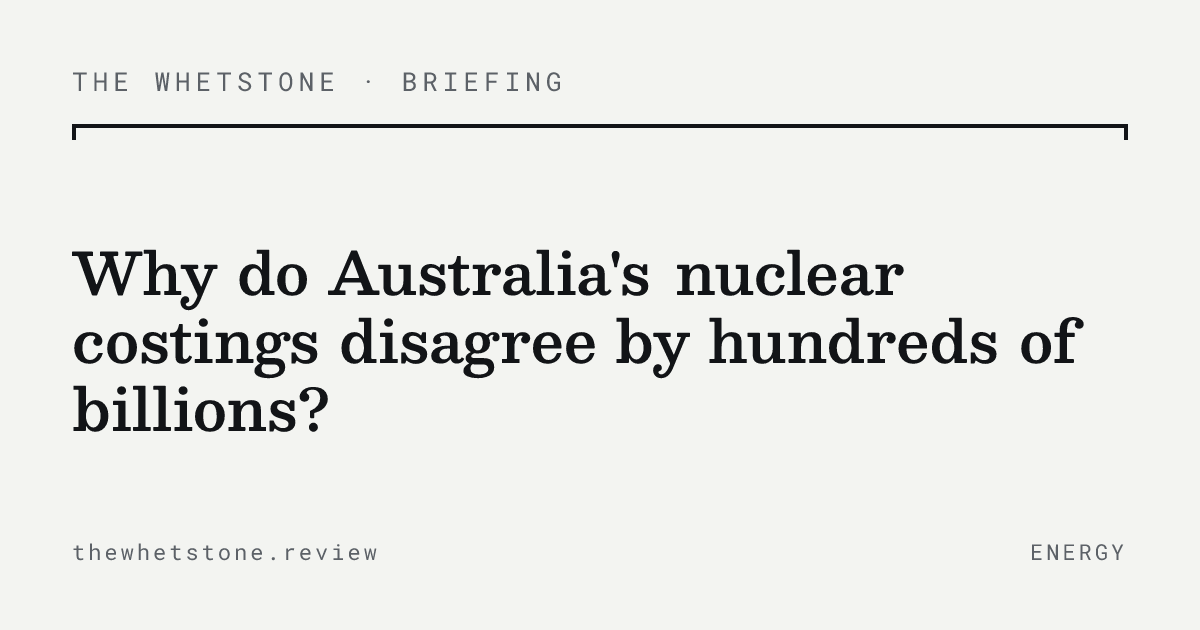
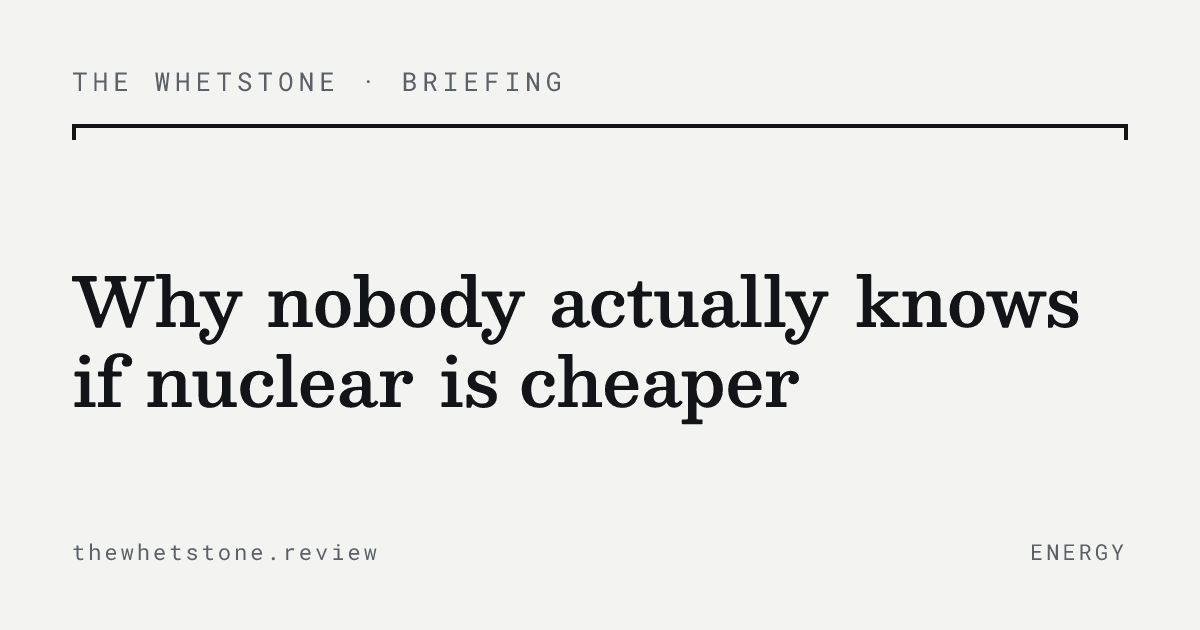
W1 launcher, T-A rails with ad slot, social takes, bridges, adapters
- index.astro: launcher stretches full width (W1)
- briefing page: wayfinder left rail (fuller map + scrollspy bolding the
  current section) with a compact audit launcher beneath; ad slot
  quarantined at the bottom of the right rail (ads re-decided 2026-08-06,
  see shelf file); placeholder until an AdSense ID exists
- three social takes land in the commentary, every quote verbatim-gated:
  Morrison (X), Joshi (Bluesky), Kean (X). verify-quotes gains platform
  adapters: X via the syndication endpoint fetched twice with agreement
  required, Bluesky via the public API; unreachable never means unverified
- bridge sentences: an 11th ::positions column renders connective tissue
  before commentary cards; prose bridges added between the audited
  position sections
- parser maps type: opinion and type: review to their kinds
- readability: article body text up to 17px
- e2e: Sources locator scoped to the section (the wayfinder link made the
  bare-text locator ambiguous); Playwright chromium reinstalled after the
  data-loss wipe. Full gate green: 720 unit, 8/8 e2e, 8/8 quotes verbatim

Changed region(s): [[0.0617, 0.3921, 0.925, 0.6937]]

diff --git a/scripts/verify-quotes.ts b/scripts/verify-quotes.ts
@@ -31,6 +31,11 @@ const UA =
 // anywhere in it — works on arXiv abstracts, think-tank pages, gov PDFs-as-HTML,
 // etc. Returns null on a non-200 or a genuinely empty page.
 async function fetchPageText(pageUrl: string): Promise<string | null> {
+  // Platform adapters (2026-08-06): social posts don't serve their text to a
+  // plain HTML fetch, but both platforms expose JSON that does.
+  const social = await fetchSocialText(pageUrl);
+  if (social !== undefined) return social;
+
   const controller = new AbortController();
   const timer = setTimeout(() => controller.abort(), 20_000);
   try {
@@ -49,6 +54,51 @@ async function fetchPageText(pageUrl: string): Promise<string | null> {
   } finally {
     clearTimeout(timer);
   }
+}
+
+async function fetchJson(url: string): Promise<unknown | null> {
+  const controller = new AbortController();
+  const timer = setTimeout(() => controller.abort(), 20_000);
+  try {
+    const res = await fetch(url, { signal: controller.signal, headers: { 'User-Agent': UA, 'Accept': 'application/json' } });
+    if (!res.ok) return null;
+    return await res.json();
+  } catch {
+    return null;
+  } finally {
+    clearTimeout(timer);
+  }
+}
+
+// Returns the post text for X/Twitter and Bluesky URLs, null when the platform
+// is recognised but unreachable (treated as UNREACHABLE, never "not found"),
+// and undefined for non-social URLs (fall through to the HTML fetch).
+async function fetchSocialText(pageUrl: string): Promise<string | null | undefined> {
+  // X/Twitter: the unofficial syndication endpoint returns full JSON without
+  // auth. Unstable by nature, so fetch twice with different token values and
+  // require the text fields to agree; disagreement or HTML → unreachable.
+  const tw = pageUrl.match(/^https?:\/\/(?:www\.)?(?:twitter|x)\.com\/[^/]+\/status(?:es)?\/(\d+)/i);
+  if (tw) {
+    const id = tw[1];
+    const grab = async (token: string) => {
+      const j = (await fetchJson(`https://cdn.syndication.twimg.com/tweet-result?id=${id}&token=${token}`)) as { text?: string } | null;
+      return typeof j?.text === 'string' ? j.text : null;
+    };
+    const [a, b] = await Promise.all([grab('a'), grab('b')]);
+    if (a !== null && a === b) return a.replace(/\s+/g, ' ').trim();
+    return null;
+  }
+  // Bluesky: public API, no auth. bsky.app/profile/<handle>/post/<rkey> →
+  // at://<handle>/app.bsky.feed.post/<rkey>.
+  const bs = pageUrl.match(/^https?:\/\/bsky\.app\/profile\/([^/]+)\/post\/([A-Za-z0-9]+)/i);
+  if (bs) {
+    const uri = encodeURIComponent(`at://${bs[1]}/app.bsky.feed.post/${bs[2]}`);
+    const j = (await fetchJson(`https://public.api.bsky.app/xrpc/app.bsky.feed.getPostThread?uri=${uri}&depth=0`)) as
+      { thread?: { post?: { record?: { text?: string } } } } | null;
+    const text = j?.thread?.post?.record?.text;
+    return typeof text === 'string' ? text.replace(/\s+/g, ' ').trim() : null;
+  }
+  return undefined;
 }
 
 async function main(): Promise<void> {

diff --git a/functions/_lib/briefing/parse.ts b/functions/_lib/briefing/parse.ts
@@ -75,6 +75,8 @@ function parsePositions(text: string): BriefingPositionSource[] {
         ...(p[7] ? { quote: p[7] } : {}),
         ...(p[8] ? { auditNote: p[8] } : {}),
         ...(p[9] && (p[9] === 'structural' || p[9] === 'interpretive' || p[9] === 'empirical') ? { auditKind: p[9] as BriefingPositionSource['auditKind'] } : {}),
+        // Optional 11: bridge sentence rendered before this source's card.
+        ...(p[10] ? { bridge: p[10] } : {}),
       };
     });
 }
@@ -344,7 +346,10 @@ export function parseBriefingFile(raw: string, slug: string): BriefingArticle {
 
   return {
     slug,
-    ...(fm.type === 'explainer' ? { kind: 'explainer' as const } : {}),
+    ...(fm.type === 'explainer' ? { kind: 'explainer' as const }
+      : fm.type === 'opinion' ? { kind: 'opinion' as const }
+      : fm.type === 'review' ? { kind: 'review' as const }
+      : {}),
     question:      fm.question ?? slug,
     ...(fm.hook ? { hook: fm.hook } : {}),
     ...(fm.category ? { category: fm.category } : {}),

diff --git a/e2e/briefing-page.spec.ts b/e2e/briefing-page.spec.ts
@@ -28,7 +28,7 @@ test('briefing page renders question, audit link, and takes', async ({ page }) =
 
   // ONE Sources section (positions + further evidence), not two competing
   // bibliographies; the old "Evidence cited" label is gone.
-  await expect(page.getByText('Sources', { exact: true })).toBeVisible();
+  await expect(page.locator('#sources').getByText('Sources', { exact: true })).toBeVisible();
   await expect(page.getByText(/Evidence cited/)).toHaveCount(0);
 
   // CTA budget: per-audit chips plus exactly one footer CTA into the tool.

diff --git a/functions/_lib/briefing/types.ts b/functions/_lib/briefing/types.ts
@@ -38,6 +38,10 @@ export interface BriefingPositionSource {
   quote?:       string;
   auditNote?:   string;
   auditKind?:   'structural' | 'interpretive' | 'empirical';
+  /** Optional 11th column: an authored bridge sentence rendered before this
+     source's commentary card — connective tissue between voices so the tier
+     reads as one conversation (Daniel, 2026-08-06). */
+  bridge?:      string;
 }
 
 // Principals: the primary sources UNDER audit (the reports/models the piece is

diff --git a/src/content/briefings/nuclear-costings-parent.md b/src/content/briefings/nuclear-costings-parent.md
@@ -17,10 +17,13 @@ frontier | Frontier Economics | A nuclear-inclusive system cheaper across the wh
 
 ::positions
 obrien | Ted O'Brien | 4BC | https://www.4bc.com.au/podcast/the-big-debate-ted-obrien-declares-nuclear-44-per-cent-cheaper-to-get-to-net-zero/ | -2 | high | Coalition energy spokesman; defends his own policy's costing | They've compared the cost of Labor's pathway to get to a net-zero grid by 2050 to the Coalition's one, which includes nuclear and it says that the Coalition's pathway is $263 billion cheaper. | The comparison crosses demand scenarios; the like-for-like figure in the same report is 25 per cent. Quoting only the cross-scenario number is a scenario-shopping move the report's own text enables but does not require. | structural
-price | Danny Price, AFR op-ed | Frontier Economics | https://www.frontier-economics.com.au/the-critics-are-wrong-about-frontiers-nuclear-costings-australian-financial-review-afr-op-ed/ | -2 | high | Frontier's managing director; defending his own model in public | There is no shortage of horror stories about nuclear plant cost blowouts, but there are also excellent recent examples of projects that are far less costly than what I have used and even lower than recommended by the CSIRO and with learning rates well in excess of what I assumed. | Selective admission: overruns are dismissed as noise while favourable builds enter as evidence, with no stated selection rule for either. | interpretive
+price | Danny Price, AFR op-ed | Frontier Economics | https://www.frontier-economics.com.au/the-critics-are-wrong-about-frontiers-nuclear-costings-australian-financial-review-afr-op-ed/ | -2 | high | Frontier's managing director; defending his own model in public | There is no shortage of horror stories about nuclear plant cost blowouts, but there are also excellent recent examples of projects that are far less costly than what I have used and even lower than recommended by the CSIRO and with learning rates well in excess of what I assumed. | Selective admission: overruns are dismissed as noise while favourable builds enter as evidence, with no stated selection rule for either. | interpretive | The number O'Brien reaches for comes from Danny Price's shop, and Price defends it in person.
+morrison | Aidan Morrison | X | https://x.com/QuixoticQuant/status/1860885993492218303 | -2 | high | Director of the CIS energy program; GenCost's most prominent critic | Note, I think 20% for solar and 30% for wind is probably generous. For a start, my analysis for grid-scale VRE based on @OpenNem data, even with some corrections for anomalies from @DavidOsmond8 didn't get that high. | Mirrored reference class: discounts forward-looking renewables assumptions with historical averages, the same move his camp rejects when GenCost applies it to nuclear. | interpretive | Aidan Morrison carries the same fight to CSIRO's door, attacking the renewables assumptions instead.
 cis | Centre for Independent Studies | CIS | https://www.cis.org.au/submission/submission-to-draft-2025-26-gencost/ | -1 | high | free-market think tank; the new measure hid information
 grattan | Grattan Institute (Tony Wood) | Grattan Institute | https://grattan.edu.au/news/the-case-to-switch-from-renewables-to-nuclear-has-not-been-made/ | 1 | med | independent institute; adjudicating, no stake in either report
-mountain | Bruce Mountain, The Conversation | The Conversation | https://theconversation.com/known-unknowns-controversy-over-csiros-electricity-report-reveals-an-uncomfortable-truth-231691 | 0 | high | Victoria Energy Policy Centre director; refuses the frame both camps share | Comparing the average costs of wind, solar, nuclear, hydro and coal power sounds like a simple thing to do. But the only plausible answer is: "it depends on many barely known and many unknown things". | The anti-frame position both camps must answer: if he is right, the argument between the models is a category error, and this briefing's decomposition inherits the charge. | interpretive
+mountain | Bruce Mountain, The Conversation | The Conversation | https://theconversation.com/known-unknowns-controversy-over-csiros-electricity-report-reveals-an-uncomfortable-truth-231691 | 0 | high | Victoria Energy Policy Centre director; refuses the frame both camps share | Comparing the average costs of wind, solar, nuclear, hydro and coal power sounds like a simple thing to do. But the only plausible answer is: "it depends on many barely known and many unknown things". | The anti-frame position both camps must answer: if he is right, the argument between the models is a category error, and this briefing's decomposition inherits the charge. | interpretive | Where the model-builders argue over inputs, Bruce Mountain rejects the whole exercise.
+joshi | Ketan Joshi | Bluesky | https://bsky.app/profile/ketanjoshi.co/post/3lldtxrca422e | 2 | high | energy analyst and writer, IEEFA and RenewEconomy | whatever nuclear has done or not done in other countries, in Australia it is nothing more than a magical phrase used by conservatives to rip cash from consumers and funnel it to their donors in the fossil fuel industry and profit-soaked utilities | Motive as refutation: a cui-bono explanation that engages none of the cost parameters; being right about motives would leave every number standing. | interpretive | From the other pole, Ketan Joshi skips the models and goes straight for the motives.
+kean | Matt Kean | X | https://x.com/honmattkean/status/1866372914779726115 | 2 | high | Chair of the Climate Change Authority; former NSW Liberal treasurer | Trying to undermine our leading scientists at the CSIRO for political reasons costs nothing - no one takes this fanciful claims seriously - but implementing an energy source (nuclear) that costs twice as much will cost households thousands, in a cost of living crisis. | Authority for argument: defends the institution rather than the assumptions, and the twice-as-much figure is the exact number under dispute, slid from system cost to household bills. | interpretive | Matt Kean makes the institutions themselves the argument.
 aemo | AEMO (Daniel Westerman) | RenewEconomy | https://reneweconomy.com.au/nuclear-too-slow-to-replace-coal-and-baseload-simply-cant-compete-with-wind-and-solar-aemo-boss-says/ | 2 | med | the market operator; co-publishes GenCost, so party to one report
 
 ::evidence
@@ -90,10 +93,14 @@ Both sides feed in similar build costs. Frontier assumes reactors run 90 per cen
 GenCost recovers the build cost over 30 years and holds that a first reactor is at least 15 years away, a clock that starts at repeal of a ban still in force. Frontier spreads the cost over 50 years and keeps most of the coal fleet running to bridge the wait. The longer the life and the fuller the bridge, the cheaper nuclear looks.
 ::enddiverge
 
+Most participants shrug at that objection and fight on inside the frame. The Centre for Independent Studies picks the measuring stick itself as the battleground.
+
 ::position colour=1 source=cis label="The switch to the new cost measure withheld information from the public"
 The Centre for Independent Studies carries the critics' regrouped objection into the 2025-26 round: after SLCOE replaced the old headline measure, the submission argues the change withheld information from the public and policymakers, shifting the fight from missing system costs to where the system boundary sits.
 ::audit name="Contested Warrant" kind=structural
 The objection assumes the pre-SLCOE presentation informed rather than misled, which is the very point in dispute; CSIRO's stated reason for the change was that per-technology numbers were being read as system claims. Both readings fit the public record. The inference holds given its premise, and the premise is the fight.
+
+Where CIS attacks the measure, Grattan accepts it and hunts for the one input that moves the answer.
 
 ::position colour=2 source=grattan label="One assumption, how often reactors run, explains the gap between the models" quote="But assuming 90 per cent for a fleet of seven plants over a multi-decade lifetime looks overly optimistic."
 Grattan sits between the models, conceding the build-cost inputs match and locating the gap in the capacity-factor assumption: "While both use similar estimates of the capital cost of nuclear plants, the big difference is that Frontier has assumed nuclear plants would run 90 per cent of the time, while CSIRO has used a range of 54-89 per cent, more akin to what coal currently achieves." On that parameter Grattan lands with GenCost: "But assuming 90 per cent for a fleet of seven plants over a multi-decade lifetime looks overly optimistic."
@@ -106,6 +113,8 @@ C | -        | The capacity-factor assumption, not the build cost, explains the 
 The conclusion needs premise (3), which the adjudication does not argue for. Whether Australian coal or the operating world nuclear fleet better predicts an Australian reactor is the dispute itself, and here it is settled by proximity to the coal figure rather than by evidence.
 ::audit name="Inherited Reference Class" kind=interpretive
 The adjudication accepts GenCost's coal-fleet analogy by proximity rather than argument. Isolating the load-bearing parameter is the piece's real service; ruling on it by analogy repeats the move under audit.
+
+AEMO steps past the arithmetic entirely: if the timeline is right, the cost argument never gets its day.
 
 ::position colour=4 source=aemo label="Nuclear cannot arrive before the coal fleet exits, so the cost contest never starts" quote="Even on the most optimistic outlook, nuclear power won't be ready in time for the exit of Australia's coal-fired power stations."
 AEMO's chief executive moves the ground from cost to timing: "Even on the most optimistic outlook, nuclear power won't be ready in time for the exit of Australia's coal-fired power stations." If the coal exit schedule holds, the cost comparison never gets its chance.
